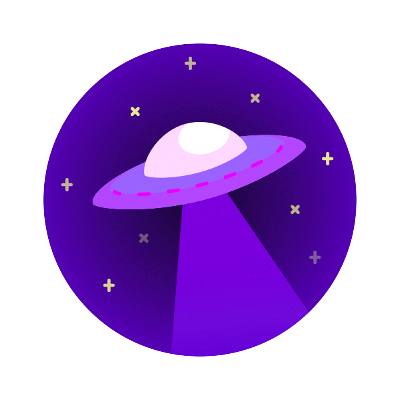
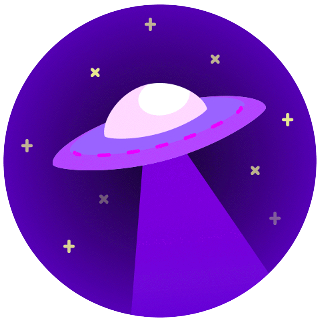
More stuff incoming

diff --git a/my-website/src/components/HomepageFeatures/index.js b/my-website/src/components/HomepageFeatures/index.js
@@ -5,7 +5,7 @@ import styles from './styles.module.css';
 const FeatureList = [
   {
     title: 'Easy to Use',
-    Svg: require('@site/static/img/undraw_docusaurus_mountain.svg').default,
+    img: require('@site/static/img/Cosmoscmd.png').default,
     description: (
       <>
         Cosmos was designed to be powerful offering a wide range of commands, but still easy to understand and Use
@@ -13,18 +13,17 @@ const FeatureList = [
     ),
   },
   {
-    title: 'Focus on What Matters',
-    Svg: require('@site/static/img/undraw_docusaurus_tree.svg').default,
+    title: 'Powered by Astro Solutions',
+    img: require('@site/static/img/astro.png').default,
     description: (
       <>
-        Docusaurus lets you focus on your docs, and we&apos;ll do the chores. Go
-        ahead and move your docs into the <code>docs</code> directory.
+        Cosmos is powered by Astro Solutions. You use our bot, we handle all the work.
       </>
     ),
   },
   {
     title: 'Powered by React',
-    Svg: require('@site/static/img/undraw_docusaurus_react.svg').default,
+    img: require('@site/static/img/undraw_docusaurus_react.svg').default,
     description: (
       <>
         Extend or customize your website layout by reusing React. Docusaurus can
@@ -34,11 +33,11 @@ const FeatureList = [
   },
 ];
 
-function Feature({Svg, title, description}) {
+function Feature({img, title, description}) {
   return (
     <div className={clsx('col col--4')}>
       <div className="text--center">
-        <Svg className={styles.featureSvg} role="img" />
+      <img src={img} alt={title} />
       </div>
       <div className="text--center padding-horiz--md">
         <h3>{title}</h3>
